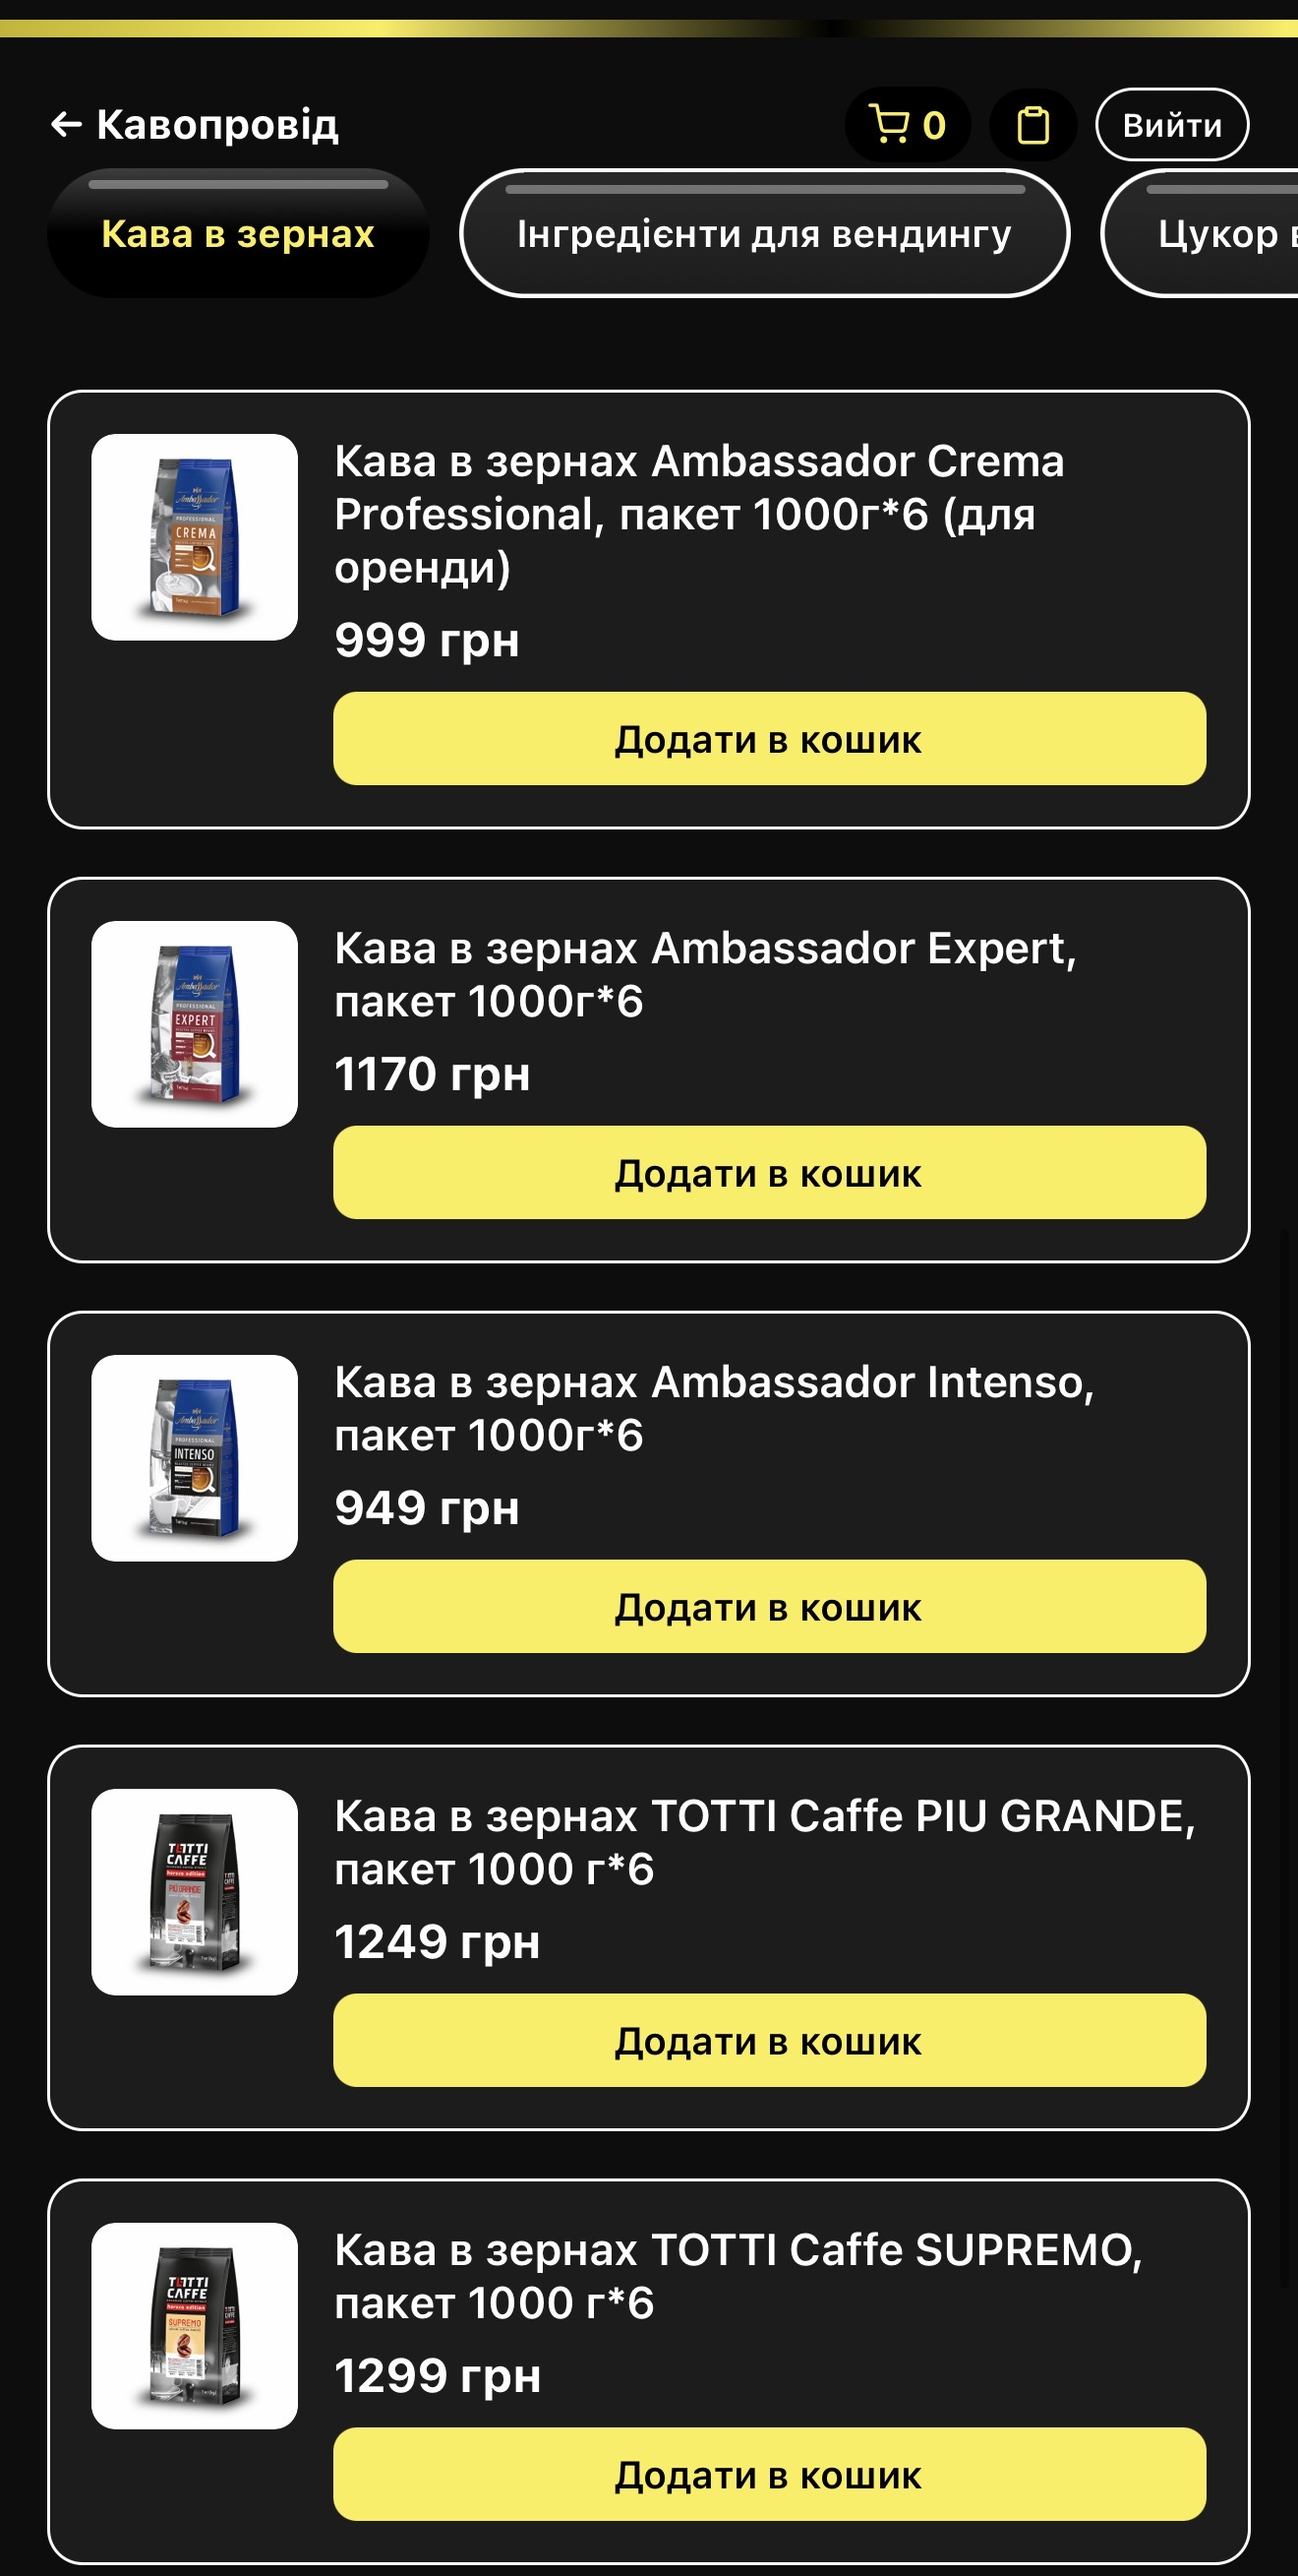
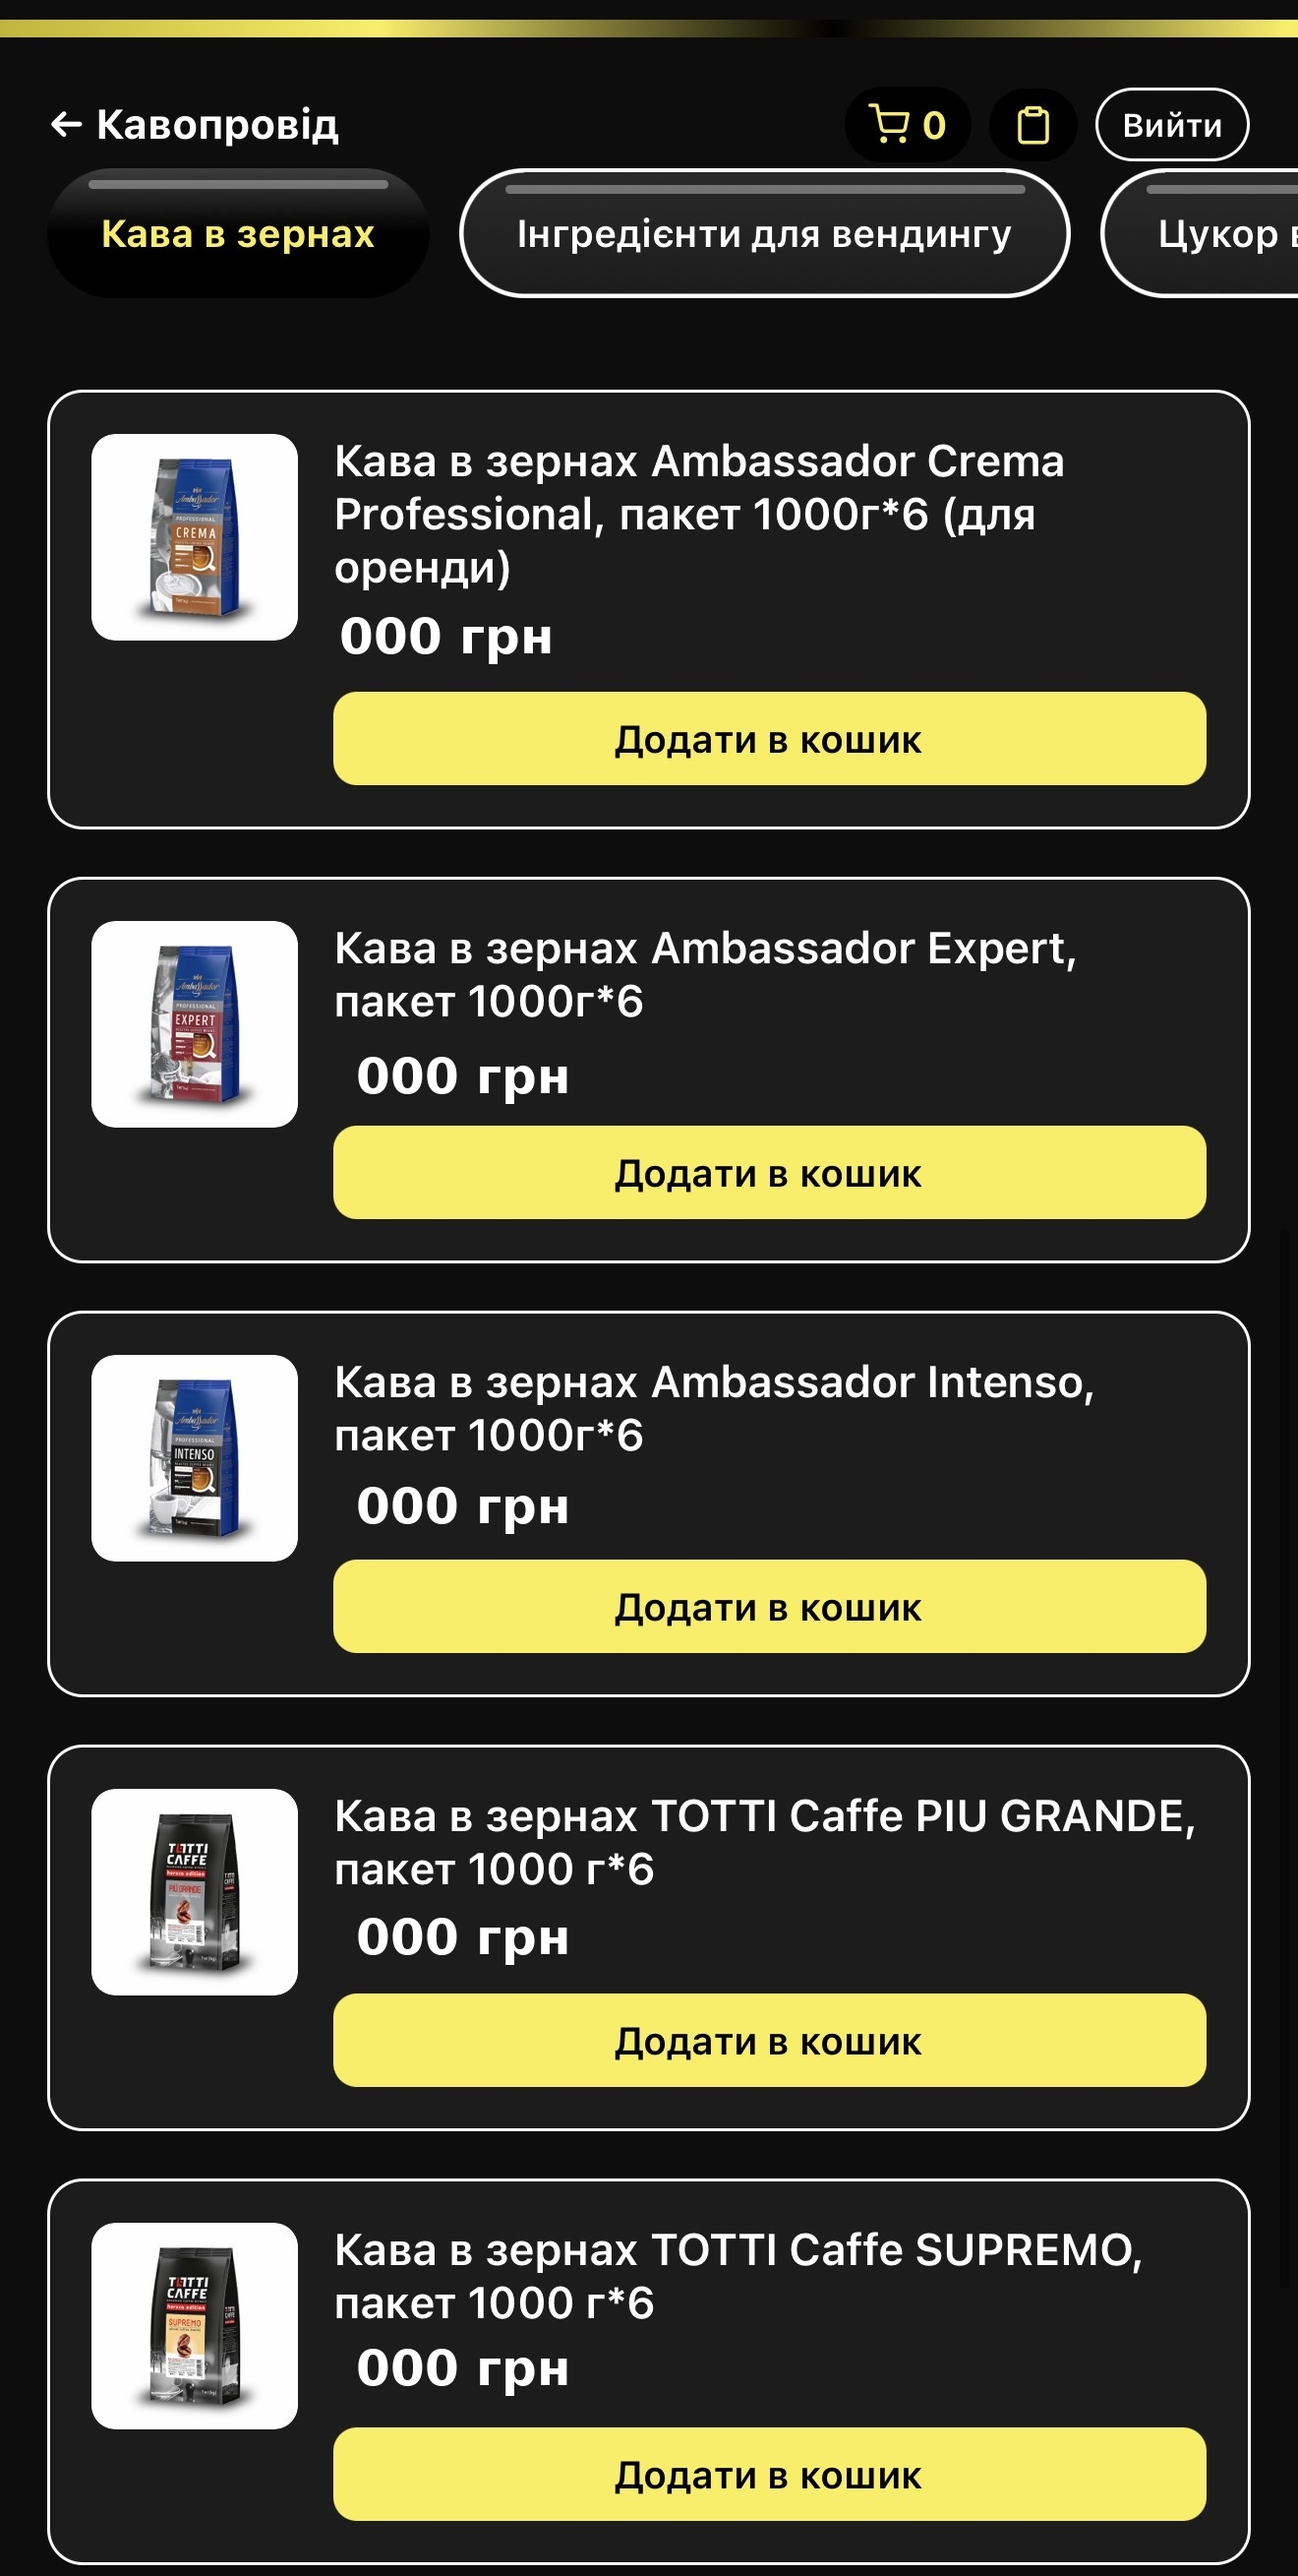
Apply TiltCard to AppSection features, harden LeadForm width, update catalog screenshot
- AppSection: the three feature cards now use the same tilt+glow
  TiltCard format as Trust's cards, per request.
- LeadForm: added w-full to both the form and the success state so
  they can't exceed their container's width under any circumstance.
- Swapped the app-catalog screenshot for the "000 грн" placeholder-
  price version.

Claude-Session: https://claude.ai/code/session_01H8hFKfrPV8xSHLTWRGw7E9

diff --git a/src/components/sections/AppSection.tsx b/src/components/sections/AppSection.tsx
@@ -6,6 +6,7 @@ import { AnimatePresence, motion, useInView, useReducedMotion } from "framer-mot
 import { RevealText } from "@/components/RevealText";
 import { IconCheck, IconGauge, IconRefresh, IconWrench } from "@/components/icons";
 import { cn } from "@/lib/cn";
+import { TiltCard } from "@/components/ui/TiltCard";
 
 const SCREENS = [
   {
@@ -141,14 +142,16 @@ export function AppSection() {
 
         <div className="mt-20 grid gap-12 sm:grid-cols-3 sm:gap-10">
           {FEATURES.map((f, i) => (
-            <div key={f.title} className="border-l-2 border-signal pl-6">
+            <TiltCard key={f.title} className="bg-ink/[0.02] p-6 sm:p-8">
               <div className="flex items-center justify-between">
-                <f.icon className="size-5 text-ink" />
+                <div className="chamfer-sm flex size-12 items-center justify-center border border-ink/15 bg-paper text-ink">
+                  <f.icon className="size-5" />
+                </div>
                 <span className="font-label text-xs tracking-widest text-ink/30">
                   {String(i + 1).padStart(2, "0")}
                 </span>
               </div>
-              <h3 className="font-display mt-4 text-lg font-bold sm:text-xl">
+              <h3 className="font-display mt-5 text-lg font-bold sm:text-xl">
                 {f.title}
               </h3>
               <ul className="mt-4 space-y-2.5">
@@ -159,7 +162,7 @@ export function AppSection() {
                   </li>
                 ))}
               </ul>
-            </div>
+            </TiltCard>
           ))}
         </div>
       </div>

diff --git a/src/components/LeadForm.tsx b/src/components/LeadForm.tsx
@@ -51,7 +51,7 @@ export function LeadForm({
       <div
         role="status"
         className={cn(
-          "chamfer-sm border border-paper/15 bg-paper/5 p-6 text-center",
+          "chamfer-sm w-full border border-paper/15 bg-paper/5 p-6 text-center",
           className,
         )}
       >
@@ -68,7 +68,7 @@ export function LeadForm({
   const companyId = `${idPrefix}-company`;
 
   return (
-    <form onSubmit={handleSubmit} className={cn("space-y-3", className)}>
+    <form onSubmit={handleSubmit} className={cn("w-full space-y-3", className)}>
       <input
         type="text"
         name="company_site"
